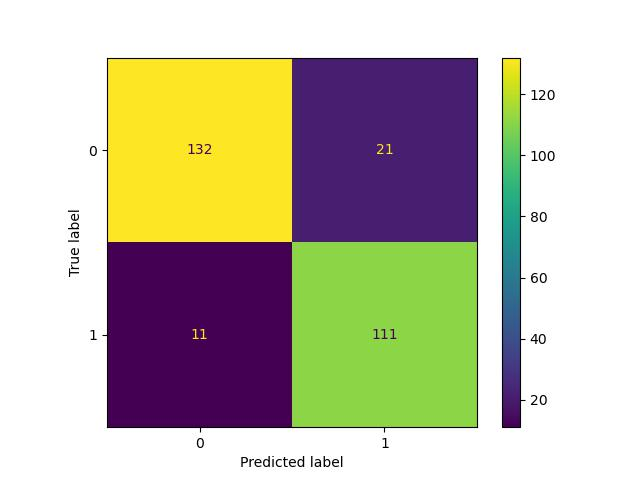
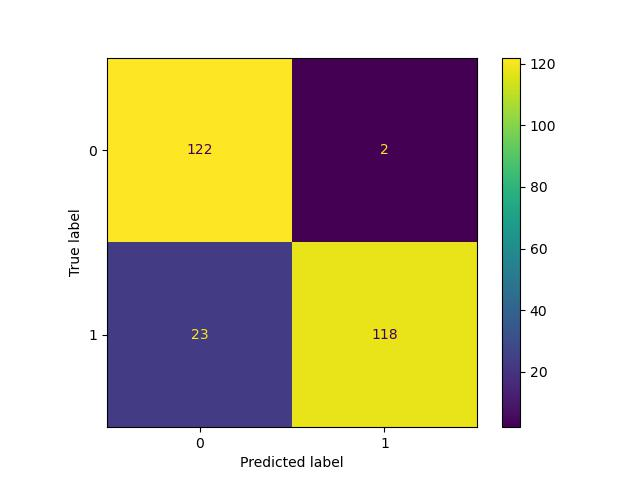
added 50_reg

diff --git a/stock_utils/stock_utils.py b/stock_utils/stock_utils.py
@@ -141,7 +141,7 @@ def create_train_data(ticker, start_date = None, end_date = None, n = 10):
     _data_['target'] = [1 if x > 0 else 0 for x in _data_['loc_max']]
 
     #columns of interest
-    cols_of_interest = ['Volume', 'normalized_value', '3_reg', '5_reg', '10_reg', '20_reg', 'target']
+    cols_of_interest = ['Volume', 'normalized_value', '3_reg', '5_reg', '10_reg', '20_reg', '50_reg', 'target']
     _data_ = _data_[cols_of_interest]
 
     return _data_.dropna(axis = 0)
@@ -156,8 +156,9 @@ def create_test_data_lr(ticker, start_date = None, end_date = None, n = 10):
     data = n_day_regression(5, data, idxs)
     data = n_day_regression(10, data, idxs)
     data = n_day_regression(20, data, idxs)
+    data = n_day_regression(50, data, idxs)
 
-    cols = ['Close', 'Volume', 'normalized_value', '3_reg', '5_reg', '10_reg', '20_reg']
+    cols = ['Close', 'Volume', 'normalized_value', '3_reg', '5_reg', '10_reg', '20_reg', '50_reg']
     data = data[cols]
 
     return data.dropna(axis = 0)
@@ -172,8 +173,9 @@ def create_realtime_data_lr(ticker, n = 10):
     data = n_day_regression(5, data, idxs)
     data = n_day_regression(10, data, idxs)
     data = n_day_regression(20, data, idxs)
+    data = n_day_regression(50, data, idxs)
 
-    cols = ['Close', 'Volume', 'normalized_value', '3_reg', '5_reg', '10_reg', '20_reg']
+    cols = ['Close', 'Volume', 'normalized_value', '3_reg', '5_reg', '10_reg', '20_reg', '50_reg']
     data = data[cols]
 
     return data.dropna(axis = 0)
@@ -189,12 +191,13 @@ def predict_trend(ticker, _model_, start_date = None, end_date = None, n = 10):
     data = n_day_regression(5, data, idxs)
     data = n_day_regression(10, data, idxs)
     data = n_day_regression(20, data, idxs)
+    data = n_day_regression(50, data, idxs)
 
     #create a column for predicted value
     data['pred'] = np.nan
 
     #get data
-    cols = ['Volume', 'normalized_value', '3_reg', '5_reg', '10_reg', '20_reg']
+    cols = ['Volume', 'normalized_value', '3_reg', '5_reg', '10_reg', '20_reg', '50_reg']
     x = data[cols]
 
     #scale the x data

diff --git a/models/lr_inference.py b/models/lr_inference.py
@@ -46,7 +46,7 @@ def LR_v1_predict(stock, start_date, end_date, threshold = 0.98, data_type='real
     close_price = data['Close'].values[-1]
 
     #get input data to model
-    input_data = data[['Volume', 'normalized_value', '3_reg', '5_reg', '10_reg', '20_reg']]
+    input_data = data[['Volume', 'normalized_value', '3_reg', '5_reg', '10_reg', '20_reg', '50_reg']]
     input_data = input_data.to_numpy()[-1].reshape(1, -1)
 
     #scale input data

diff --git a/models/lr_run_training.py b/models/lr_run_training.py
@@ -53,7 +53,7 @@ class LR_training:
         self.stocks = list(np.unique(stocks))
 
         #main dataframe
-        self.main_df = pd.DataFrame(columns = ['Volume', 'normalized_value', '3_reg', '5_reg', '10_reg', '20_reg', 'target'])
+        self.main_df = pd.DataFrame(columns = ['Volume', 'normalized_value', '3_reg', '5_reg', '10_reg', '20_reg', '50_reg', 'target'])
 
         # init models
         self.scalar = MinMaxScaler()
